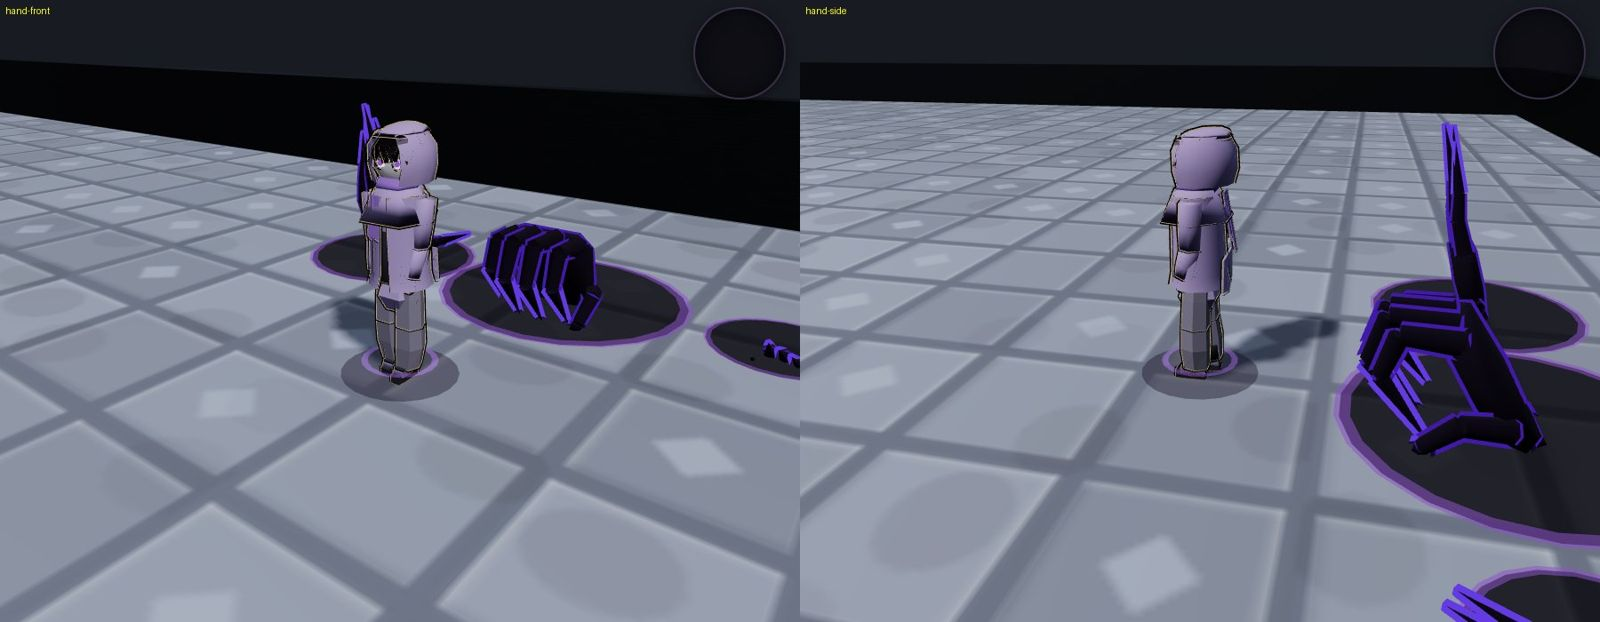
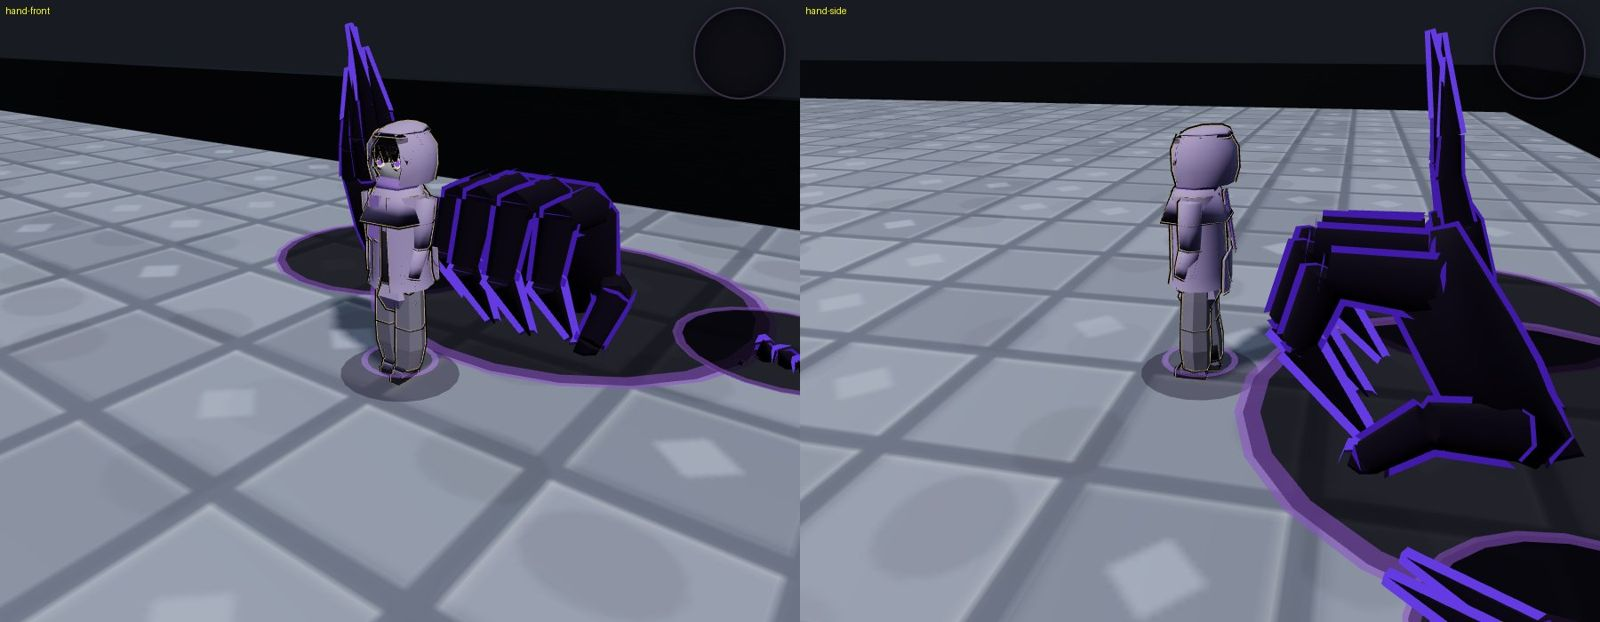
WANDERER-RENEWAL-002: レビュー対応(影の手の大きさを WR2-2 どおりに・使い回しの世代・足元の影の地点移動)
Claude-Session: https://claude.ai/code/session_01E5HtvtZnZXQW2TYqKrPCHQ

diff --git a/src/legacy/parts/17-wanderer-style.js b/src/legacy/parts/17-wanderer-style.js
@@ -108,7 +108,8 @@
     if(M.shade){
       const yTop = hy + r*1.00, yBot = hy + r*(o.deep ? -0.08 : 0.30);
       const band = new THREE.CylinderGeometry(r*1.00, r*1.00, yTop - yBot, 14, 1, true, -0.95, 1.90);
-      add(band, M.shade, 0, (yTop + yBot)/2, bz + r*0.02, 'head');
+      const shade = add(band, M.shade, 0, (yTop + yBot)/2, bz + r*0.02, 'head');
+      shade.castShadow = false; shade.userData.noOutline = true;
     }
 
     // マフラー: 首を高く覆い、片端を胸の前へ、両端を背中へ垂らす
@@ -230,6 +231,7 @@
      o: {x, z, y, yaw, scale, hitT, crushT, radius(sweep の半径), endX, endZ(crawl), lean} */
   function spawnShadowHand(mode, o){
     const h = takeShadowHand();
+    h.gen = (h.gen || 0) + 1;   // 使い回した手を、前の持ち主の予定が消さないように(releaseShadowHandFor)
     h.mode = mode; h.o = Object.assign({}, o); h.t = 0; h.active = true; h.root.visible = true;
     h.root.position.set(o.x, o.y != null ? o.y : state.pos.y, o.z);
     h.yawG.rotation.set(0, o.yaw || 0, 0);
@@ -243,6 +245,8 @@
     return h;
   }
   function releaseShadowHand(h){ if(!h) return; h.active = false; h.root.visible = false; }
+  /* 予定(待ち行列の項目)が持っている手を片づける。その手が既に別の技に使い回されていれば触らない */
+  function releaseShadowHandFor(e){ if(e && e.hand && e.hand.gen === e.handGen) releaseShadowHand(e.hand); }
   const wEaseOut = k=> 1 - Math.pow(1 - Math.max(0, Math.min(1, k)), 3);
   const wEaseIn  = k=> Math.pow(Math.max(0, Math.min(1, k)), 2);
   const wSpan = (t, a, b)=> Math.max(0, Math.min(1, (t - a) / Math.max(1e-4, b - a)));
@@ -389,7 +393,8 @@
     if(stage === comboLen) queueWandererEcho('finish', {x:at.x, z:at.z, yaw}, dmg, e.hand);
   }
   function pushWandererQueue(e){
-    pushEcho(wandererEchoes, e).forEach(d=>{ if(d.hand && !d.keepHand) releaseShadowHand(d.hand); });
+    if(e.hand && e.handGen == null) e.handGen = e.hand.gen;
+    pushEcho(wandererEchoes, e).forEach(d=>{ if(!d.keepHand) releaseShadowHandFor(d); });
   }
   /* 影の追撃の予約。hand が渡されればその手が動く(握砕)。無ければ種類に応じて手を出す */
   function queueWandererEcho(kind, at, dmg, hand){
@@ -520,6 +525,9 @@
     const f = wandererFoot;
     if(!f.mesh.parent) scene.add(f.mesh);
     f.t += dt;
+    // 運ばれた(地点移動・世界の作り直し)時は、前の場所の足取りを捨てる
+    const last = f.trail[f.trail.length - 1];
+    if(last && Math.hypot(last.x - state.pos.x, last.z - state.pos.z) > 4) f.trail.length = 0;
     f.trail.push({t:f.t, x:state.pos.x, y:state.pos.y, z:state.pos.z});
     while(f.trail.length > 1 && f.trail[1].t <= f.t - WANDERER_ECHO_LAG) f.trail.shift();
     const at = f.trail[0];

diff --git a/src/core/wanderer-style.js b/src/core/wanderer-style.js
@@ -144,15 +144,16 @@ export function lineHit({ox, oz, yaw, tx, tz, length, width}){
      3 段目 握砕     … 敵の足元に開いた手。当たった後、0.45 秒(予定から)で握り潰す
    scale は影の手の大きさ(手首〜中指の先 = 1 の型に掛ける倍率。主人公の身長 2.54) */
 export const WANDERER_STRIKE = Object.freeze({
-  basic:  {hand: 'rise',  delay: 0.16, shape: 'circle', radius: 1.5, scale: 2.4},
-  basic2: {hand: 'sweep', delay: 0.14, shape: 'arc',                  scale: 2.4},
-  basic3: {hand: 'grab',  delay: 0.18, shape: 'circle', radius: 1.6, scale: 3.0},
+  basic:  {hand: 'rise',  delay: 0.16, shape: 'circle', radius: 1.5, scale: 3.4},
+  basic2: {hand: 'sweep', delay: 0.14, shape: 'arc',                  scale: 3.4},
+  basic3: {hand: 'grab',  delay: 0.18, shape: 'circle', radius: 1.6, scale: 4.7},
 });
-/* 影の手の大きさ(手首〜中指の先 = 1 の型への倍率)。DEC-034 §3-3 の目安
-   (通常 約 1.5〜2 倍 / 強い 約 2〜3 倍 / 必殺技 圧倒的)を、見下ろしカメラで主人公と
-   攻撃範囲が隠れない所まで詰めた値(手の全長 + 地面から出る手首 ≒ 倍率 × 1.6 m) */
+/* 影の手の大きさ(手首〜中指の先 ≒ 1.08 の型への倍率。手首から先の高さ ≒ 倍率 × 1.08 m)。
+   DEC-034 §3-3 の目安と WANDERER-RENEWAL-002 WR2-2(主人公の身長 2.54 に対し、通常 約 1.4〜1.5 倍・
+   強い一撃 約 2 倍・必殺技 約 2.2 倍)。見下ろしカメラで主人公と対象が隠れないよう、手は敵の足元・
+   攻撃範囲の上に出し、短時間で沈める */
 export const WANDERER_HAND_SCALE = Object.freeze({
-  basic: 2.4, grab: 3.0, skill1: 3.4, skill2: 2.8, ult: 3.6, dodge: 1.0, small: 1.6,
+  basic: 3.4, grab: 4.7, skill1: 4.7, skill2: 3.6, ult: 5.2, dodge: 1.0, small: 2.4,
 });
 
 export function planStrike(kind, at, dmg, opts){

diff --git a/.ai/tasks/WANDERER-RENEWAL-002.md b/.ai/tasks/WANDERER-RENEWAL-002.md
@@ -65,6 +65,8 @@ None
 | --- | --- | --- | --- | --- |
 | 2026-11-23 | Task | — → ANALYZING → APPROVED | Orchestrator / Planner | Human の最終キャラクター設計書（DEC-034）。Analyzer report persist（`9cb8f545b95c3ef221271ebb748955d257f4fec4`）。H-1〜H-8 確認 |
 | 2026-11-23 | Task | APPROVED → IMPLEMENTING → TESTING → REVIEWING | Implementer | Plan Handoff H-1〜H-8 確認。build / unit 2331 / E2E 80 + 7 PASS。Debugger サイクル 0 |
+| 2026-11-23 | Task | REVIEWING → CHANGES_REQUIRED | Reviewer | Round 1/3（`591370292c171a56713808e7c734489b5a46787b`）: 影の手の大きさが WR2-2 と不一致 |
+| 2026-11-23 | Task | CHANGES_REQUIRED → TESTING → REVIEWING | Implementer | Review Fix Loop Round 1（Auto Fix 1）。build / unit 2331 / E2E 5 PASS |
 
 ## Implementation Result
 
@@ -116,5 +118,10 @@ None
 
 ### Notes
 - 1 段目・3 段目の判定は手の出た場所の円（WR2-1）。2 段目は従来の扇
-- 影の手の大きさは目安（1.5〜3 倍）より控えめ（WR2-2: 見下ろしカメラで主人公と攻撃範囲を隠さないため）。iPhone 実機で Human が確認して調整できる（`WANDERER_HAND_SCALE`）
+- 影の手の大きさは WR2-2 どおり（Round 1 Fix）。iPhone 実機で Human が確認して調整できる（`WANDERER_HAND_SCALE`）
 - 勝利の専用の動きは作っていない（WR2-5）
+
+### Round 1 Fix
+- Required Change #1（影の手の大きさが WR2-2 と不一致）: 案 (a)。倍率を WR2-2 の値へ（手首から先 ≒ 倍率 × 1.08 m）: 通常 3.4（≒ 3.7 m = 身長の約 1.4 倍）・握砕/影残し 4.7（約 2 倍）・影渡り 3.6・必殺技 5.2（約 2.2 倍）・回避攻撃等の小さな手 2.4。core のコメントと docs/CHARACTERS.md の数値を揃えた。844×390 の撮影で主人公と対象が見えることを確認（`img/WANDERER-RENEWAL-002/5-combat-844x390.jpg` を差し替え）
+- 非ブロッキングの指摘への対応: 加入前のフードの影の帯の castShadow を外した（R5）。足元の影は地点移動（4 m 以上の飛び）で足取りを捨てる（R4）。使い回した手を前の持ち主の予定が片づけないよう、手に世代番号を持たせた（R2）。R1（待ち行列の上限）・R3（旧成長ルールのサブ武器）・R6（当たりの効果音）は Risks として残す
+- Test: build PASS、unit 2331 PASS、E2E wanderer-renewal / road2-join 5 PASS

diff --git a/docs/CHARACTERS.md b/docs/CHARACTERS.md
@@ -135,8 +135,8 @@
   - 影の手: 人間の手を巨大化した形（手のひら・4 本の指・大きく外へ開く親指）。指は長く、指先だけ鋭く
     尖る。関節は少し不自然に折れる。手首は地面の影（黒紫の円・紫の縁）と一体。内部は黒に近い紫の不透明、
     輪郭だけ影の紫 #8A5AD6 に光る（指先は太く明るい輪郭）。床の下から立ち上がり、沈んで消える。
-    大きさは主人公（身長 2.54）に対し、通常 約 1〜1.5 倍・強い一撃 約 1.2〜1.4 倍・必殺技 約 1.4 倍 × 5 本
-    （見下ろしカメラで主人公と攻撃範囲が隠れない所まで詰めた値。`WANDERER_HAND_SCALE`）
+    大きさ（手首から先）は主人公（身長 2.54）に対し、通常 約 1.4 倍・強い一撃（握砕・影残し）約 2 倍・
+    必殺技 約 2.2 倍 × 5 本（`WANDERER_HAND_SCALE`。手は敵の足元・攻撃範囲の上に出し、短時間で沈める）
   - 間合い 3.2・扇 半角 60°・攻撃間隔 0.44・体幹 0.9（剣士と盗賊の間の「中間の間合い」）
   - 通常攻撃 3 段（判定は影の手が当たる瞬間 = 入力の 0.14〜0.18 秒後）:
     ① 影の突き上げ（扇の中の一番近い敵の足元から突き上げる。手のまわり半径 1.5）
